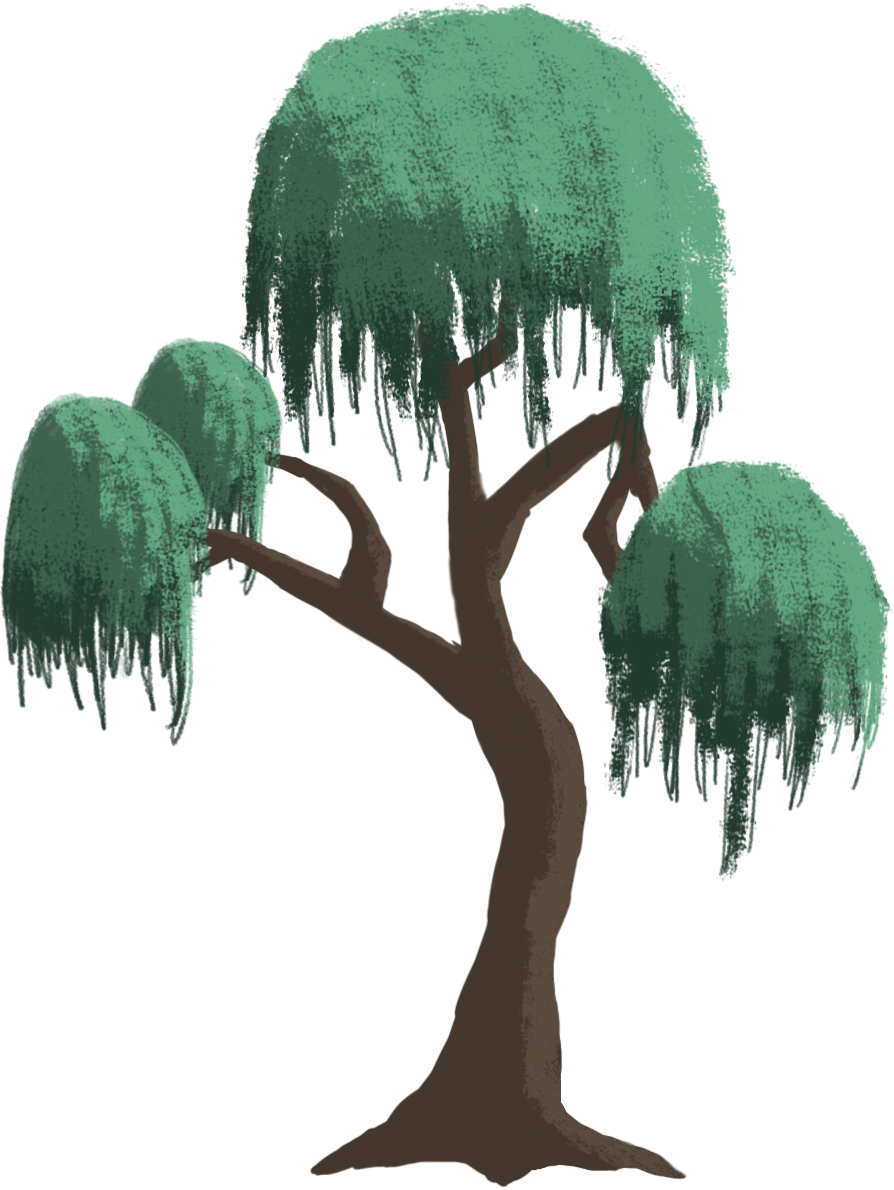
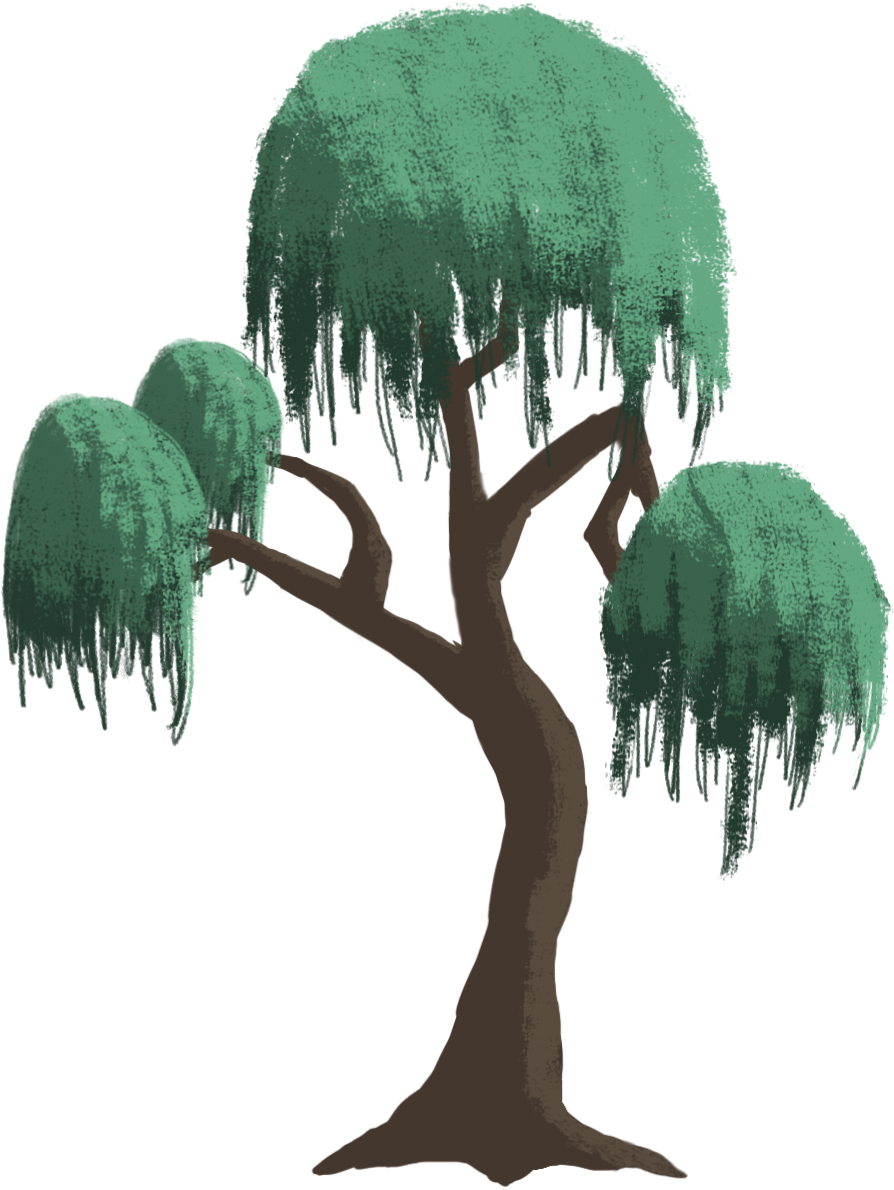
fixed Spine Positions and added simple masking test for shadows.
Took 6 hours 5 minutes

diff --git a/assets/TileSets/Hextiles.tsx b/assets/TileSets/Hextiles.tsx
@@ -37,7 +37,14 @@
  <tile id="41">
   <image width="1024" height="512" source="../res/Hexe/verbessert.png"/>
  </tile>
- <tile id="45">
-  <image width="894" height="1190" source="../../../../Users/sindr/Desktop/tt.png"/>
+ <tile id="46">
+  <properties>
+   <property name="masky" type="float" value="70"/>
+   <property name="offsety" type="float" value="70"/>
+   <property name="originoffsetx" type="float" value="-100"/>
+   <property name="originoffsety" type="float" value="-550"/>
+   <property name="spriteshadow" type="bool" value="true"/>
+  </properties>
+  <image width="894" height="1190" source="../res/Hexe/tree.png"/>
  </tile>
 </tileset>

diff --git a/core/src/engineobjects/SceneObject.java b/core/src/engineobjects/SceneObject.java
@@ -2,15 +2,10 @@ package engineobjects;
 
 import box2dLight.PointLight;
 import com.badlogic.gdx.Gdx;
-import com.badlogic.gdx.graphics.Color;
-import com.badlogic.gdx.graphics.GL30;
-import com.badlogic.gdx.graphics.Pixmap;
-import com.badlogic.gdx.graphics.Texture;
-import com.badlogic.gdx.graphics.g2d.Batch;
-import com.badlogic.gdx.graphics.g2d.Sprite;
-import com.badlogic.gdx.graphics.g2d.TextureAtlas;
-import com.badlogic.gdx.graphics.g2d.TextureRegion;
+import com.badlogic.gdx.graphics.*;
+import com.badlogic.gdx.graphics.g2d.*;
 import com.badlogic.gdx.graphics.glutils.FrameBuffer;
+import com.badlogic.gdx.graphics.glutils.ShapeRenderer;
 import com.badlogic.gdx.math.Vector2;
 import com.badlogic.gdx.math.Vector3;
 import com.esotericsoftware.spine.*;
@@ -24,7 +19,7 @@ public class SceneObject extends Sprite {
     private boolean object;
     private int id;
     private boolean spriteShadow;
-    private float originOffsetX, originOffsetY, offsetY;
+    private float originOffsetX, originOffsetY, offsetY, maskY;
     private float resWidth, resHeight;
     private float opacity;
 
@@ -64,6 +59,7 @@ public class SceneObject extends Sprite {
             originOffsetX = Float.parseFloat(propertyMap.get("originoffsetx"));
             originOffsetY = Float.parseFloat(propertyMap.get("originoffsety"));
             offsetY = Float.parseFloat(propertyMap.get("offsety"));
+            maskY = Float.parseFloat(propertyMap.get("masky"));
         }
     }
 
@@ -101,7 +97,7 @@ public class SceneObject extends Sprite {
         TextureRegion region = new TextureRegion(texture);
         region.flip(false, true);
 
-        float centerX = this.getWidth() / (2 * ContentCanvas.camera.viewportWidth / Gdx.graphics.getWidth());
+        float centerX = this.getHeight() / (2 * ContentCanvas.camera.viewportWidth / Gdx.graphics.getWidth());
         float centerY = this.getHeight() / (2 * ContentCanvas.camera.viewportHeight / Gdx.graphics.getHeight());
 
         if (this.isFlipX())
@@ -114,15 +110,34 @@ public class SceneObject extends Sprite {
         centerX += originOffsetX;
         centerY += originOffsetY;
 
-        Vector3 vp = ContentCanvas.camera.project(new Vector3(tempVW.x, tempVW.y, 0));
-
         float scaleY = 2f - (float) Math.exp(-distance / lightDistance);
         float scaleX = 0.7f / scaleY;
+
+        Vector3 vp = ContentCanvas.camera.project(new Vector3(tempVW.x, tempVW.y, 0));
 
         batch.setColor(new Color(0, 0, 0, 1));
         batch.draw(region, vp.x + 0 * (1 / ContentCanvas.camera.zoom), vp.y + offsetY * (1 / ContentCanvas.camera.zoom), centerX * (1 / ContentCanvas.camera.zoom), centerY * (1 / ContentCanvas.camera.zoom), Gdx.graphics.getWidth(), Gdx.graphics.getHeight(), scaleX, scaleY, degree + 90);
         batch.setColor(Color.WHITE);
+    }
 
+    private void mask() {
+
+        ShapeRenderer shapeRenderer = new ShapeRenderer();
+        shapeRenderer.setAutoShapeType(true);
+        shapeRenderer.setProjectionMatrix(ContentCanvas.camera.combined);
+
+        Gdx.gl.glEnable(GL20.GL_BLEND);
+        Gdx.gl.glBlendFuncSeparate(GL20.GL_ZERO, GL20.GL_ZERO, GL20.GL_ZERO, GL20.GL_ZERO);
+
+        shapeRenderer.begin();
+        shapeRenderer.set(ShapeRenderer.ShapeType.Filled);
+        shapeRenderer.rect(ContentCanvas.camera.position.x - ((ContentCanvas.camera.viewportWidth / 2) * ContentCanvas.camera.zoom), ContentCanvas.camera.position.y - ((ContentCanvas.camera.viewportHeight / 2) * ContentCanvas.camera.zoom), this.getWidth(), maskY);
+        shapeRenderer.flush();
+        shapeRenderer.end();
+
+        Gdx.gl.glDisable(GL20.GL_BLEND);
+
+        shapeRenderer.dispose();
     }
 
     private Vector2 tempVW;
@@ -149,12 +164,15 @@ public class SceneObject extends Sprite {
             Gdx.gl.glClearColor(0, 0, 0, 0);
             Gdx.gl.glClear(GL30.GL_COLOR_BUFFER_BIT);
             batch.begin();
-            batch.enableBlending();
             if (skeleton != null)
                 skeletonRenderer.draw(batch, skeleton);
             else
                 super.draw(batch);
             batch.end();
+            if (maskY != 0) {
+                batch.flush();
+                mask();
+            }
             shadowBuffer.end();
             //-----------------
             setPosition(tempVW.x, tempVW.y);
@@ -194,7 +212,7 @@ public class SceneObject extends Sprite {
         skeleton.setScale(this.getWidth() / resWidth, this.getHeight() / resHeight);
 
         AnimationStateData stateData = new AnimationStateData(skeleton.getData());
-        skeleton.setPosition(this.getX() - skeleton.getData().getX() * (this.getWidth() / resWidth), this.getY() - skeleton.getData().getY() * (this.getHeight() / resHeight));
+        setPosition(this.getX(), this.getY());
         animationState = new AnimationState(stateData);
         animationState.setAnimation(0, firstState, true);
 
@@ -205,7 +223,7 @@ public class SceneObject extends Sprite {
     public void setPosition(float x, float y) {
         super.setPosition(x, y);
         if (skeleton != null) {
-            skeleton.setPosition(x + this.getWidth() / 2, y);
+            skeleton.setPosition(x - skeleton.getData().getX() * (this.getWidth() / resWidth), y - skeleton.getData().getY() * (this.getHeight() / resHeight));
             skeleton.updateWorldTransform();
         }
     }

diff --git a/core/src/screen/ContentCanvas.java b/core/src/screen/ContentCanvas.java
@@ -104,9 +104,9 @@ public class ContentCanvas implements Screen, InputProcessor {
                 MateEngine.DEBUG = true;
         }
 
-        //Gdx.gl.glClear(GL20.GL_COLOR_BUFFER_BIT | GL20.GL_DEPTH_BUFFER_BIT | (Gdx.graphics.getBufferFormat().coverageSampling ? GL20.GL_COVERAGE_BUFFER_BIT_NV : 0));
-        Gdx.gl.glClearColor(0, 0, 0, 1);
-        Gdx.gl.glClear(GL20.GL_COLOR_BUFFER_BIT | GL20.GL_DEPTH_BUFFER_BIT);
+        Gdx.gl.glClear(GL20.GL_COLOR_BUFFER_BIT | GL20.GL_DEPTH_BUFFER_BIT | (Gdx.graphics.getBufferFormat().coverageSampling ? GL20.GL_COVERAGE_BUFFER_BIT_NV : 0));
+        //Gdx.gl.glClearColor(0, 0, 0, 1);
+        //Gdx.gl.glClear(GL20.GL_COLOR_BUFFER_BIT | GL20.GL_DEPTH_BUFFER_BIT);
         updateCamera();
         scene.render(batch);
     }

diff --git a/core/src/engineobjects/LightObject.java b/core/src/engineobjects/LightObject.java
@@ -37,7 +37,6 @@ public class LightObject {
     }
 
     private Random random;
-
     private float time;
 
     public void update() {
